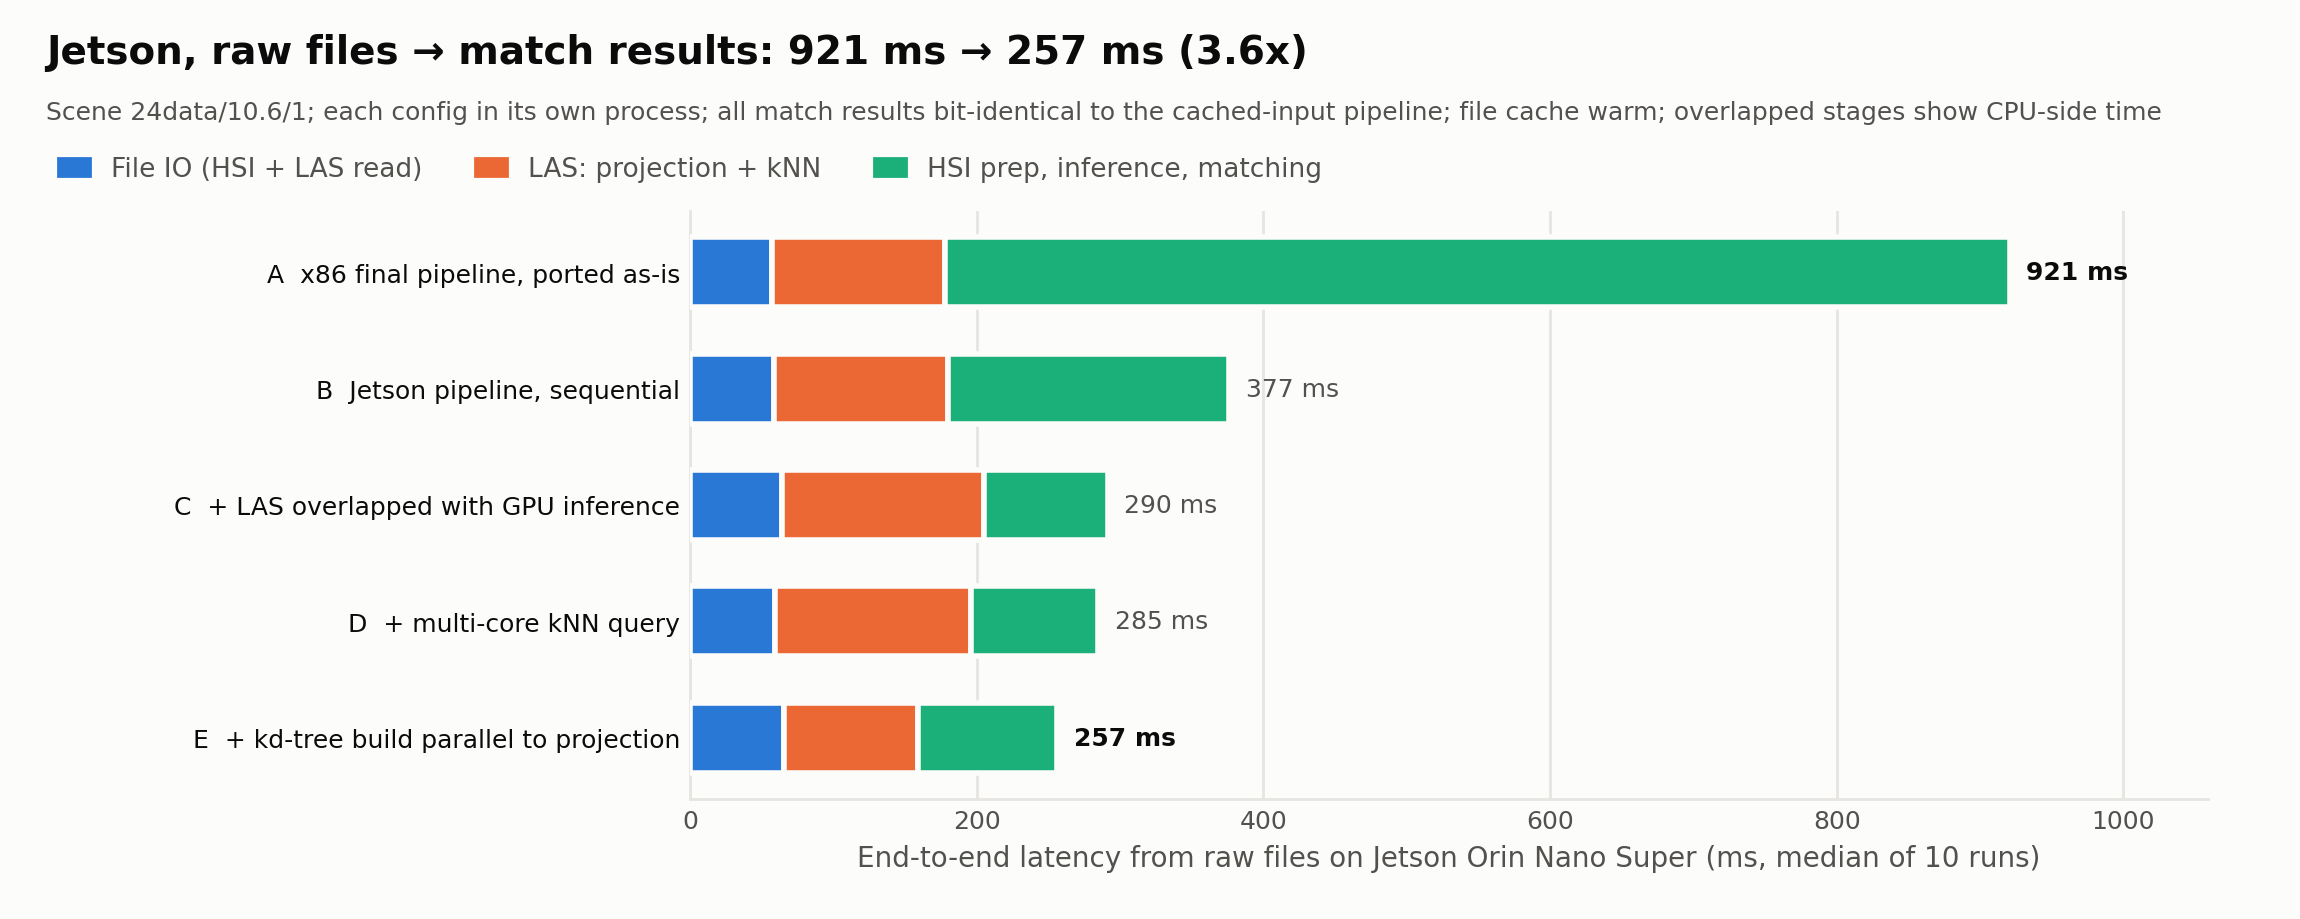
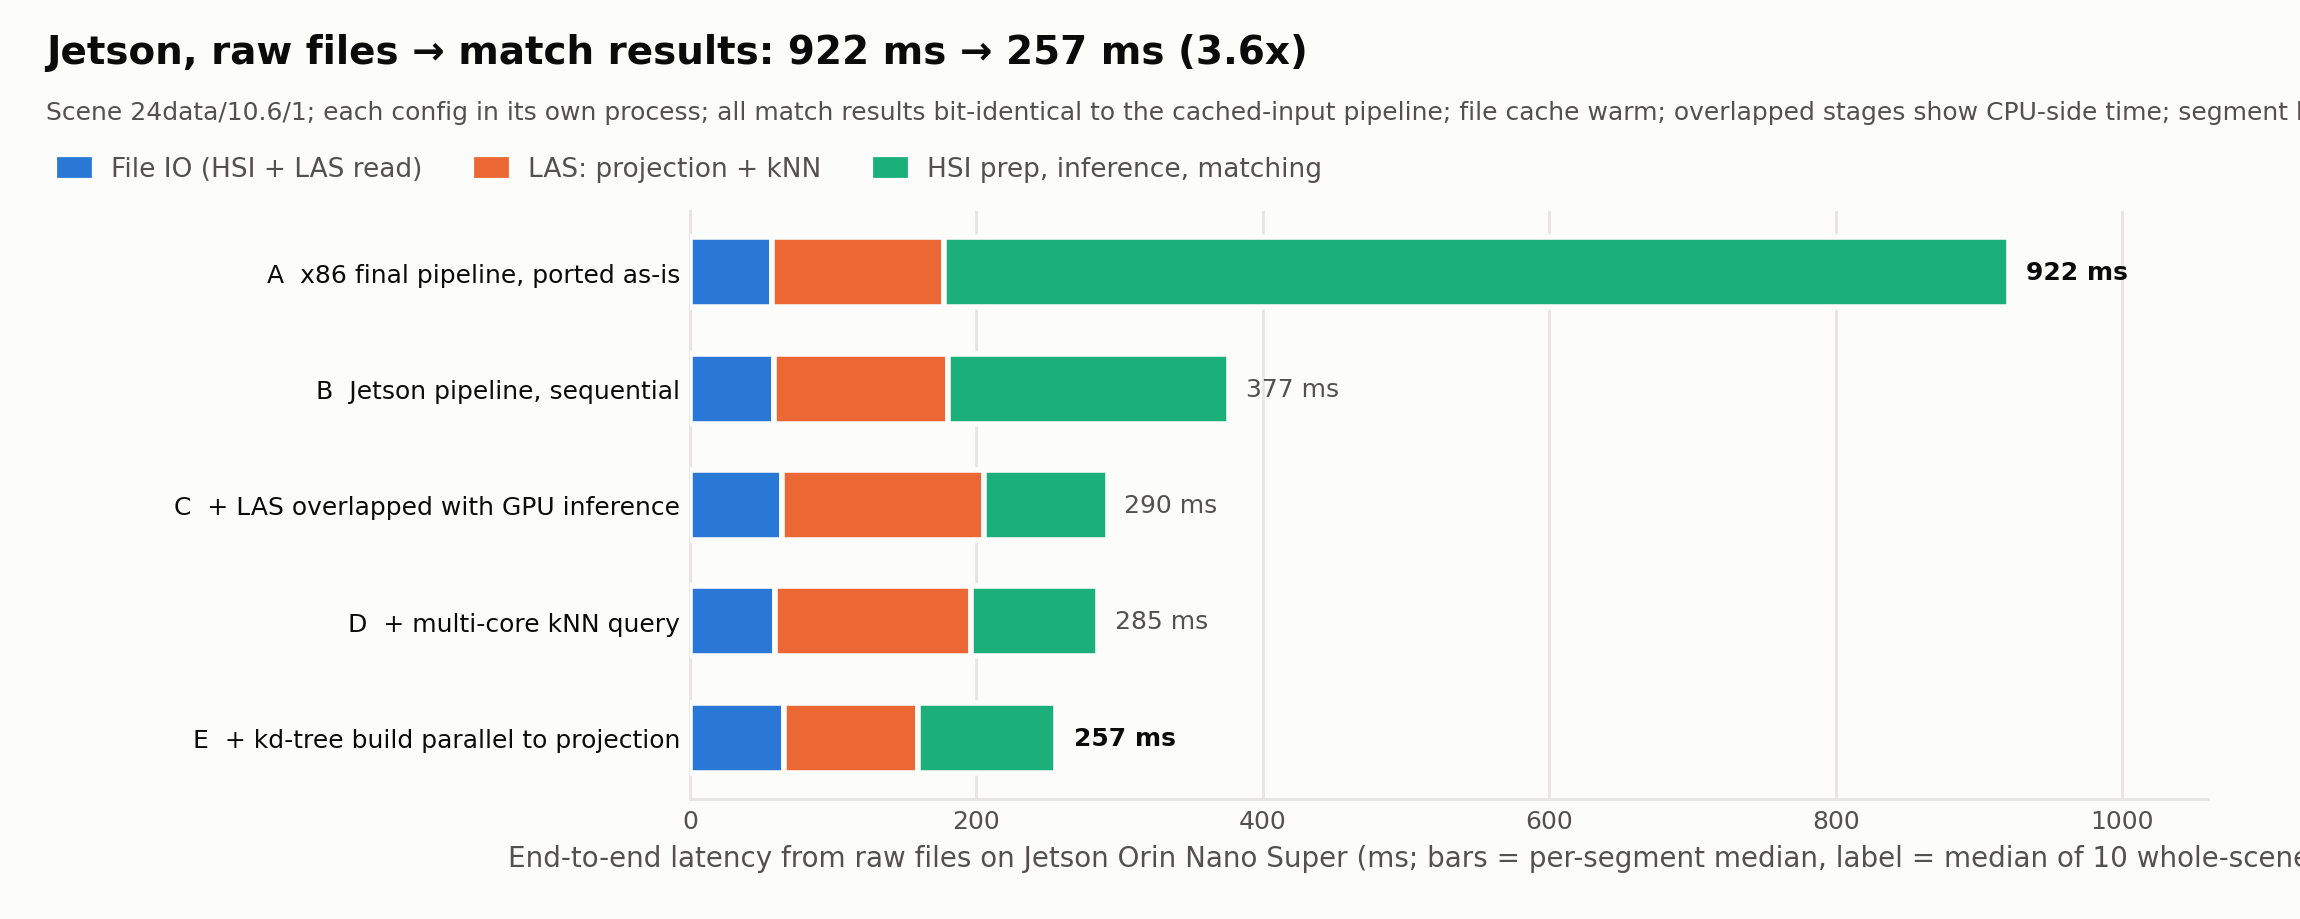
Jetson: unify A/E statistic for full end-to-end speedup
外部审查指出：完整端到端加速比（3.59x / 3.2～3.6x）由 A÷E 算出，但 A
（deploy_scene.py）的 total_ms 是"各段中位数之和"，E（deploy_jetson.py）是
"10 次整景墙钟的中位数"，两种统计量直接相除，README/图表却统一标成同一种口径。

新增 results/jetson/logs/p5_a_run_totals.py：只读板上已有的逐次运行原始记录
（未入库），把 A 也改成"10 次整景耗时的中位数"，与 B~E 同口径；原有的"各段
中位数之和"保留在新增字段 total_ms_sum_of_segment_medians。不重跑、不产生新
测量，可重复运行。顺带修正 e2e_las_summary.json 里写错的 note（误写成 A/B/C，
实际是 C2/D/E）。

make_readme_assets.py 新增护栏：完整端到端的每条记录都要求 total_statistic ==
"median_of_run_totals"，否则拒绝计算加速比并报出具体位置；已在隔离副本里测试
过缺失/错误两种失败路径。同时改准了 jetson_full_e2e.png 的坐标轴标注。

数字变化：默认场景与 4 景范围不变（3.59x、3.2～3.6x）；其中两个场景的倍数变了
0.01（3.23x→3.24x、3.48x→3.47x），8 组正反两轮里最大偏差 1.3ms。README 与 docs
第 4 节的数字已同步更新。

Changed region(s): [[0.2161, 0.8836, 1.0, 0.9445], [0.957, 0.0914, 1.0, 0.1523]]

diff --git a/results/jetson/logs/p5_a_run_totals.py b/results/jetson/logs/p5_a_run_totals.py
@@ -1,0 +1,129 @@
+"""修正完整端到端 A（deploy_scene.py）与 B～E（deploy_jetson.py）总计的统计口径不一致问题
+（外部审查指出：A 原为"各段中位数之和"，B～E 为"10 次整景墙钟的中位数"，二者相除得到的加速比
+混用了两种统计量）。本机运行，只读已拉回的板上原始记录（results/jetson/e2e_full/*.json，
+未入库、含逐点匹配行列，不受影响，只用其中的计时数据），不重跑、不产生新测量。
+
+做法：A 也改用"10 次整景耗时的中位数"——A 链路完全顺序执行，每次整景耗时 = 该次各分段耗时之和
+（deploy_scene.py 的 warm.segments[*].all_sec[i]，10 次各自求和取中位数），与 B～E 同口径；
+deploy_scene.py 自身报告的"各段中位数之和"保留在新增的 total_ms_sum_of_segment_medians 字段。
+B～E 的 total_ms 本身已经是墙钟中位数（warm.total_ms_all 的中位数），不改数值，只补
+total_statistic 字段并修正 total_definition 的措辞。
+
+同时修正 e2e_las_summary.json 顶层 note：该文件实际配置是 C2/D/E（第二批复测 C + D + E），
+之前误写成了 A/B/C 的说明。
+
+用法：python results/jetson/logs/p5_a_run_totals.py
+读取并原地更新 results/jetson/e2e_full_summary.json（A/B/C）与 results/jetson/e2e_las_summary.json（C2/D/E）。
+可重复运行：所有数值都从原始记录重新推导，不依赖上一次的输出。
+"""
+import ast
+import json
+from pathlib import Path
+
+import numpy as np
+
+ROOT = Path(__file__).resolve().parents[3]
+
+
+def _load_segment_constants() -> tuple[list[str], set[str]]:
+    """从 scripts/deploy_scene.py 的源码里解析 SEGMENT_ORDER / IO_SEGMENTS 这两个模块级常量，
+    不 import 该文件（它依赖 tensorrt/polygraphy/私有 matching 模块，本机汇总脚本不需要装这些）。"""
+    tree = ast.parse((ROOT / "scripts/deploy_scene.py").read_text())
+    found: dict[str, object] = {}
+    for node in tree.body:
+        if isinstance(node, ast.Assign) and len(node.targets) == 1 and isinstance(node.targets[0], ast.Name):
+            name = node.targets[0].id
+            if name in ("SEGMENT_ORDER", "IO_SEGMENTS"):
+                found[name] = ast.literal_eval(node.value)
+    assert "SEGMENT_ORDER" in found and "IO_SEGMENTS" in found, "scripts/deploy_scene.py 里找不到 SEGMENT_ORDER / IO_SEGMENTS"
+    return found["SEGMENT_ORDER"], found["IO_SEGMENTS"]
+
+
+SEGMENT_ORDER, IO_SEGMENTS = _load_segment_constants()
+SCENES = ["24data/10.6/1", "24data/10.6/10", "25data/8.4/1", "25data/10.22/1"]
+RAW_DIR = ROOT / "results/jetson/e2e_full"
+FULL_JSON = ROOT / "results/jetson/e2e_full_summary.json"
+LAS_JSON = ROOT / "results/jetson/e2e_las_summary.json"
+
+A_DEFINITION = (
+    "A（deploy_scene.py）顺序执行；每次整景耗时 = 该次各分段耗时之和（不含分段之间约 <1ms 未计时的"
+    "胶水代码），10 次取中位数，与 B～E 同口径。deploy_scene.py 自身报告的“各段中位数之和”保留在 "
+    "total_ms_sum_of_segment_medians / total_without_io_ms_sum_of_segment_medians，两者通常相差不到 2ms。"
+)
+BE_DEFINITION = "整景墙钟中位数：每次整景整体计时（含文件读取，页缓存热），10 次取中位数。"
+
+FULL_NOTE_SUFFIX = "（A 的 total_ms 与 B/C 同口径，均为 10 次整景墙钟耗时的中位数；A 自身各段中位数之和另见 total_ms_sum_of_segment_medians。）"
+LAS_NOTE = (
+    "C2=第二批复测的 C（B + LAS 与 GPU 推理重叠，用于确认批次间无漂移）；D=C2 + kNN 查询多核；"
+    "E=D + kd 树构建与投影并行（最终配置，deploy_jetson.py 默认）。各自独立进程，每景 C2→D→E（fwd）"
+    "再 E→D→C2（rev）；每个 JSON 内 warmup 2 + 重复 10 次取中位数，total_ms 为整景墙钟中位数。"
+)
+
+
+def recompute_a(tag: str, rnd: str) -> dict:
+    raw = json.loads((RAW_DIR / f"e2e_full_A_{tag}_{rnd}.json").read_text())
+    segs = raw["warm"]["segments"]
+    assert set(segs) == set(SEGMENT_ORDER), f"A {tag} {rnd}：分段集合与 deploy_scene.SEGMENT_ORDER 不一致"
+    n = len(segs["match"]["all_sec"])
+    assert all(len(v["all_sec"]) == n for v in segs.values()), f"A {tag} {rnd}：各段重复次数不一致"
+
+    per_run_total = [sum(segs[s]["all_sec"][i] for s in segs) for i in range(n)]
+    per_run_total_wo_io = [sum(segs[s]["all_sec"][i] for s in segs if s not in IO_SEGMENTS) for i in range(n)]
+    total_ms = float(np.median(per_run_total)) * 1000
+    total_wo_io_ms = float(np.median(per_run_total_wo_io)) * 1000
+    sum_of_medians_ms = sum(segs[s]["median_sec"] for s in segs) * 1000
+    sum_of_medians_wo_io_ms = sum(segs[s]["median_sec"] for s in segs if s not in IO_SEGMENTS) * 1000
+
+    # 与原始 JSON 自带的 total_with_io_median_sec（deploy_scene.py 当时写出的口径）交叉核对，
+    # 确认我们独立重算出的"各段中位数之和"与它一致——这只是校验，不作为最终采用值。
+    raw_reported = raw["warm"]["total_with_io_median_sec"] * 1000
+    diff = abs(sum_of_medians_ms - raw_reported)
+    assert diff < 0.05, f"A {tag} {rnd}：重算的各段中位数之和 {sum_of_medians_ms:.3f} 与原始记录 {raw_reported:.3f} 不一致（差 {diff:.3f}ms）"
+
+    print(f"  A {tag} {rnd}: median_of_run_totals={total_ms:.1f} sum_of_segment_medians={sum_of_medians_ms:.1f} "
+          f"diff={total_ms - sum_of_medians_ms:+.1f}ms range=[{min(per_run_total)*1000:.1f}, {max(per_run_total)*1000:.1f}]")
+    return {
+        "total_ms": total_ms,
+        "total_without_io_ms": total_wo_io_ms,
+        "total_ms_sum_of_segment_medians": sum_of_medians_ms,
+        "total_without_io_ms_sum_of_segment_medians": sum_of_medians_wo_io_ms,
+        "total_statistic": "median_of_run_totals",
+        "total_definition": A_DEFINITION,
+    }
+
+
+def recompute_be(cfg: str, tag: str, rnd: str) -> dict:
+    raw = json.loads((RAW_DIR / f"e2e_full_{cfg}_{tag}_{rnd}.json").read_text())
+    w = raw["warm"]
+    all_ms = w["total_ms_all"]
+    median_ms = float(np.median(all_ms))
+    diff = abs(median_ms - w["total_ms_median"])
+    assert diff < 1e-6, f"{cfg} {tag} {rnd}：重算中位数 {median_ms} 与原始记录 {w['total_ms_median']} 不一致"
+    print(f"  {cfg} {tag} {rnd}: median_of_run_totals={median_ms:.1f} (n={len(all_ms)}, "
+          f"range=[{min(all_ms):.1f}, {max(all_ms):.1f}])")
+    return {"total_statistic": "median_of_run_totals", "total_definition": BE_DEFINITION}
+
+
+def update_file(path: Path, cfgs: list[str], note_fix) -> None:
+    summary = json.loads(path.read_text())
+    for sc in SCENES:
+        tag = sc.replace("/", "_")
+        for cfg in cfgs:
+            for rnd in ("fwd", "rev"):
+                entry = summary["scenes"][sc][cfg][rnd]
+                patch = recompute_a(tag, rnd) if cfg == "A" else recompute_be(cfg, tag, rnd)
+                entry.update(patch)
+    summary["note"] = note_fix(summary["note"])
+    path.write_text(json.dumps(summary, ensure_ascii=False, indent=2) + "\n")
+    print("written ->", path)
+
+
+def _append_once(note: str, suffix: str) -> str:
+    return note if suffix in note else note + suffix
+
+
+if __name__ == "__main__":
+    print("== e2e_full_summary.json (A/B/C) ==")
+    update_file(FULL_JSON, ["A", "B", "C"], lambda note: _append_once(note, FULL_NOTE_SUFFIX))
+    print("== e2e_las_summary.json (C2/D/E) ==")
+    update_file(LAS_JSON, ["C2", "D", "E"], lambda note: LAS_NOTE)

diff --git a/scripts/make_readme_assets.py b/scripts/make_readme_assets.py
@@ -150,6 +150,11 @@ for summ in (jf, jl):
                     sys.exit(f"完整端到端 {sc} {c} {rnd}：匹配行列与缓存 S11b 不一致")
                 if r["preprocess_guardrail_vs_cache"] is not None and not all(r["preprocess_guardrail_vs_cache"].values()):
                     sys.exit(f"完整端到端 {sc} {c} {rnd}：前处理护栏未通过")
+                # A（各段中位数之和）与 B~E（整景墙钟中位数）曾是两种不同的统计量，直接相除会混用口径；
+                # p5_a_run_totals.py 已把 A 也改成同一种统计量，这里要求每条记录显式声明，缺失就拒绝算加速比。
+                if r.get("total_statistic") != "median_of_run_totals":
+                    sys.exit(f"完整端到端 {sc} {c} {rnd}：total_statistic 不是 median_of_run_totals（{r.get('total_statistic')!r}），"
+                             "拒绝计算加速比——先用 results/jetson/logs/p5_a_run_totals.py 统一口径")
 F_SC = "24data/10.6/1"
 FULL = {"A": jf[F_SC]["A"]["fwd"], "B": jf[F_SC]["B"]["fwd"], "C": jf[F_SC]["C"]["fwd"],
         "D": jl[F_SC]["D"]["fwd"], "E": jl[F_SC]["E"]["fwd"]}
@@ -436,14 +441,16 @@ def fig_jetson_full() -> None:
     ax.set_yticks(range(len(cfgs)), [F_LABELS[c] for c in cfgs])
     ax.invert_yaxis()
     ax.set_xlim(0, xmax * 1.15)
-    ax.set_xlabel("End-to-end latency from raw files on Jetson Orin Nano Super (ms, median of 10 runs)")
+    ax.set_xlabel("End-to-end latency from raw files on Jetson Orin Nano Super (ms; bars = per-segment median, "
+                  "label = median of 10 whole-scene runs)")
     ax.grid(axis="x", color=GRID, linewidth=1, zorder=0)
     for lab in ax.get_yticklabels():
         lab.set_color(INK); lab.set_fontsize(9)
     fig.text(0.02, 0.93, f"Jetson, raw files → match results: {FULL['A']['total_ms']:.0f} ms → {FULL['E']['total_ms']:.0f} ms "
              f"({full_sp[F_SC]:.1f}x)", color=INK, fontsize=14, weight="bold", ha="left")
     fig.text(0.02, 0.87, "Scene 24data/10.6/1; each config in its own process; all match results bit-identical to the cached-input pipeline; "
-             "file cache warm; overlapped stages show CPU-side time",
+             "file cache warm; overlapped stages show CPU-side time; segment bars are per-segment medians and may not sum exactly "
+             "to the printed total (median of whole-scene run totals)",
              color=INK2, fontsize=9, ha="left")
     fig.legend(handles=[Patch(color=c, label=g) for g, _, c in groups], loc="upper left",
                bbox_to_anchor=(0.015, 0.855), ncol=3, frameon=False, fontsize=9.5, labelcolor=INK2, handlelength=1.2)

diff --git a/docs/jetson.md b/docs/jetson.md
@@ -159,13 +159,15 @@ kd 树构建放后台线程与投影并行，kNN 查询用全部核）→ Tensor
 
 | 场景 | A：x86 最终链路原样（`deploy_scene.py`） | B：Jetson 链路顺序执行 | C：+ LAS 与 GPU 推理重叠 | D：+ kNN 查询多核 | **E：+ kd 树构建与投影并行** | A→E |
 |---|---|---|---|---|---|---|
-| 24data/10.6/1 | 920.9 / 921.8 | 376.9 / 374.9 | 290.2 / 290.9 | 285.4 / 285.4 | **256.7 / 254.8** | 3.59x |
-| 24data/10.6/10 | 860.9 / 859.7 | 396.0 / 396.4 | 325.6 / 327.8 | 322.2 / 320.6 | **266.1 / 267.8** | 3.23x |
-| 25data/8.4/1 | 742.3 / 734.9 | 299.9 / 303.2 | 239.1 / 242.5 | 238.7 / 238.6 | **213.5 / 216.9** | 3.48x |
-| 25data/10.22/1 | 801.8 / 804.4 | 323.3 / 322.9 | 250.2 / 249.1 | 247.2 / 247.3 | **229.2 / 231.6** | 3.50x |
+| 24data/10.6/1 | 921.5 / 920.9 | 376.9 / 374.9 | 290.2 / 290.9 | 285.4 / 285.4 | **256.7 / 254.8** | 3.59x |
+| 24data/10.6/10 | 861.2 / 859.2 | 396.0 / 396.4 | 325.6 / 327.8 | 322.2 / 320.6 | **266.1 / 267.8** | 3.24x |
+| 25data/8.4/1 | 741.2 / 734.5 | 299.9 / 303.2 | 239.1 / 242.5 | 238.7 / 238.6 | **213.5 / 216.9** | 3.47x |
+| 25data/10.22/1 | 801.7 / 805.7 | 323.3 / 322.9 | 250.2 / 249.1 | 247.2 / 247.3 | **229.2 / 231.6** | 3.50x |
 
-（单位 ms，正/反两轮；A 的总计是各段中位数之和，这是 `deploy_scene.py` 原有口径；B～E 是整景墙钟中位数。A～C 与 D～E 分两批跑，
-第二批里复测的 C 与第一批几乎相同，如 290.2 vs 290.3ms，批次间没有漂移。）
+（单位 ms，正/反两轮；A～E 的总计都是 10 次整景耗时的中位数——A（`deploy_scene.py`）顺序执行，每次整景耗时取该次各分段之和，
+10 次取中位数，与 B～E 同口径；`deploy_scene.py` 自身报告的"各段中位数之和"另见 `e2e_full_summary.json` 的
+`total_ms_sum_of_segment_medians`，与这里的口径通常相差不到 2ms。A～C 与 D～E 分两批跑，
+第二批里复测的 C（`e2e_las_summary.json` 记为 C2）与第一批几乎相同，如 290.2 vs 290.3ms，批次间没有漂移。）
 
 - **A → B**：A 的大头是 CPU 构建 patch（252ms）、NumPy 匹配（268ms）和 pageable 拷贝下的 HSI 推理（164ms），连同 PC 推理与拼网格共约 713ms；
   B 用第 3 节的 GPU 链路把这部分压到约 173ms（HSI patch 与推理 116ms + PC 推理、拼网格与匹配 57ms）。
